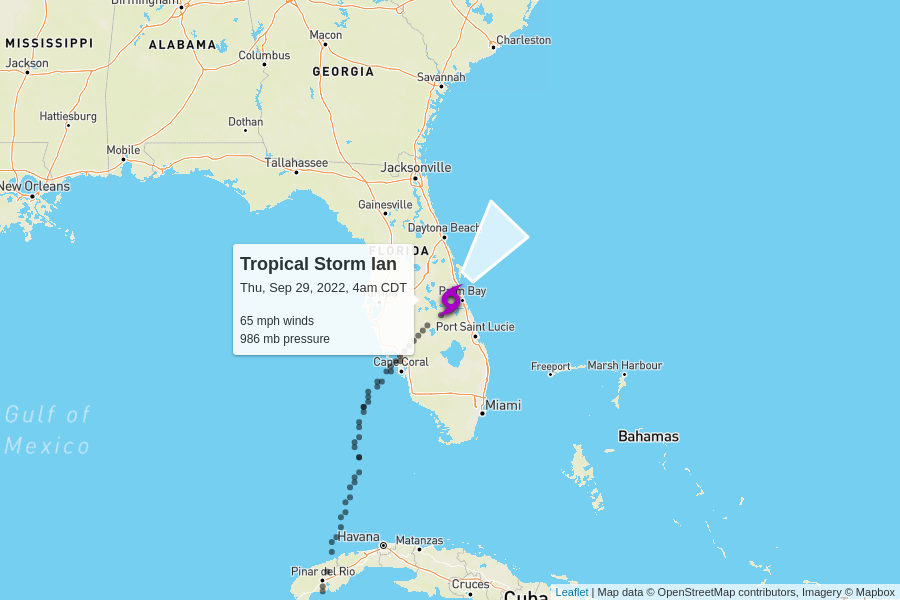
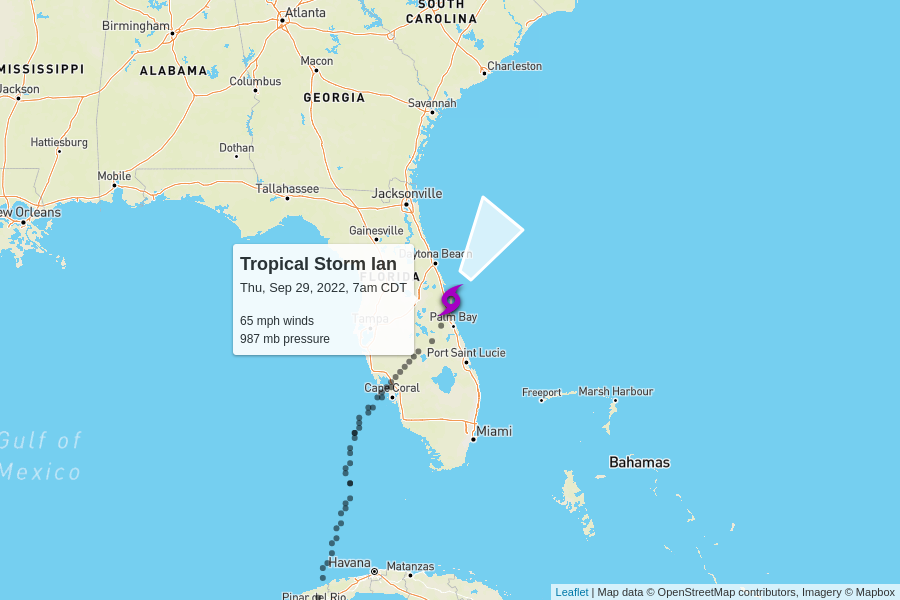
automatic update

diff --git a/docs/index.html b/docs/index.html
@@ -100,7 +100,7 @@
         <td colspan="6" class="storm category-0" >
           <h2>
             Tropical Storm Ian
-            <p class="updated">last updated <span data-time>2022-09-29T09:00:00.000Z</span></p>
+            <p class="updated">last updated <span data-time>2022-09-29T12:00:00.000Z</span></p>
           </h2>
         </td>
       </tr>
@@ -116,11 +116,11 @@
       <tr>
         <td class="spacer"></td>
         <td>65 mph</td>
-        <td>986 mb</td>
+        <td>987 mb</td>
         <td>
           8 mph to the northeast
           <br/>
-          <span style="display: inline-block; font-size: 1.5em; transform: rotate(40deg);">↑</span>
+          <span style="display: inline-block; font-size: 1.5em; transform: rotate(35deg);">↑</span>
         </td>
         <td><a href="https://raw.githubusercontent.com/mgwalker/atlantic-hurricanes/main/data/csv/AL092022.csv">AL092022.csv</a></td>
         <td><a href="https://www.nhc.noaa.gov/archive/2022/IAN.shtml?">NHC advisories</a></td>
